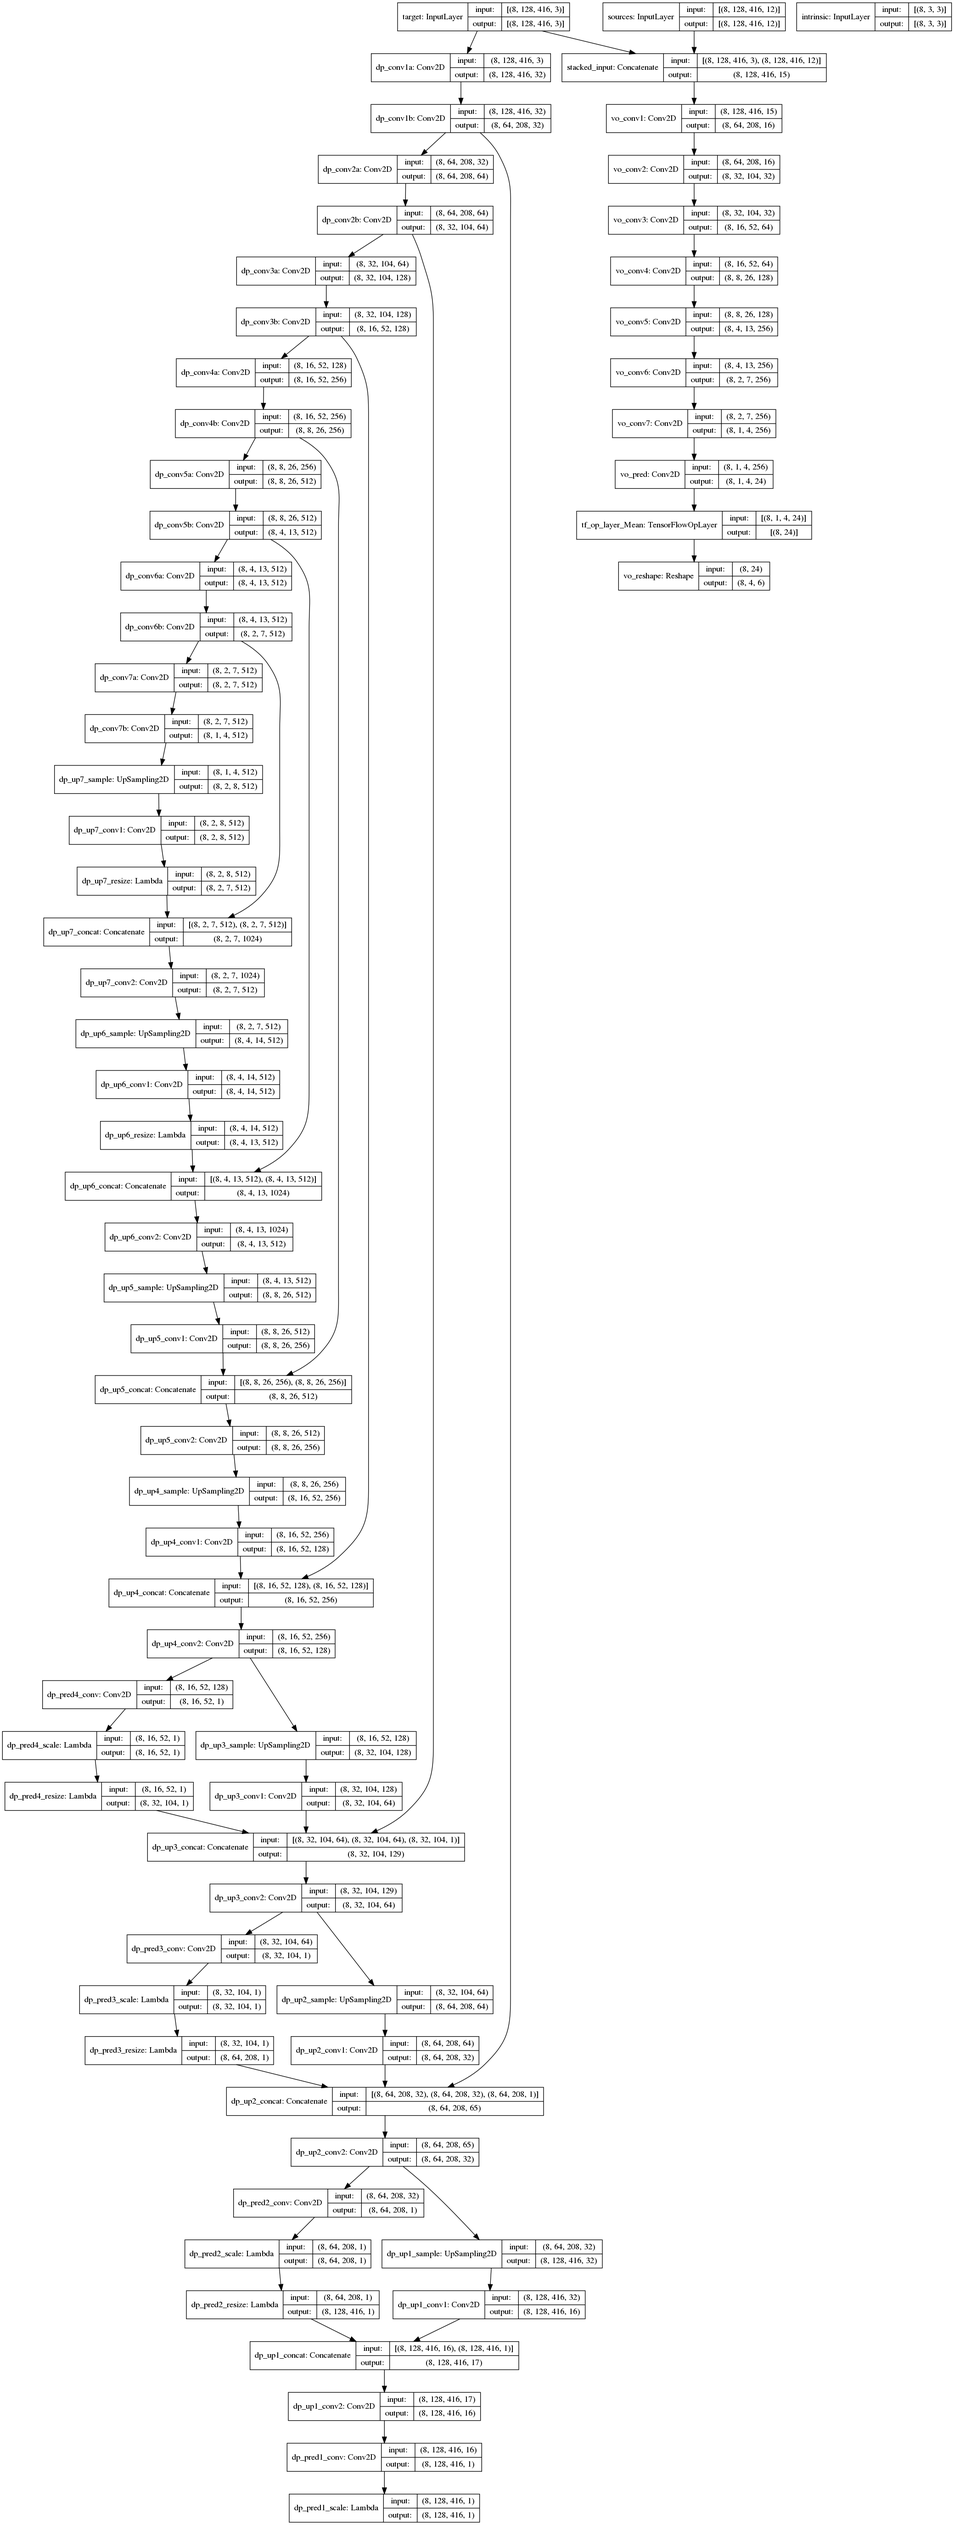
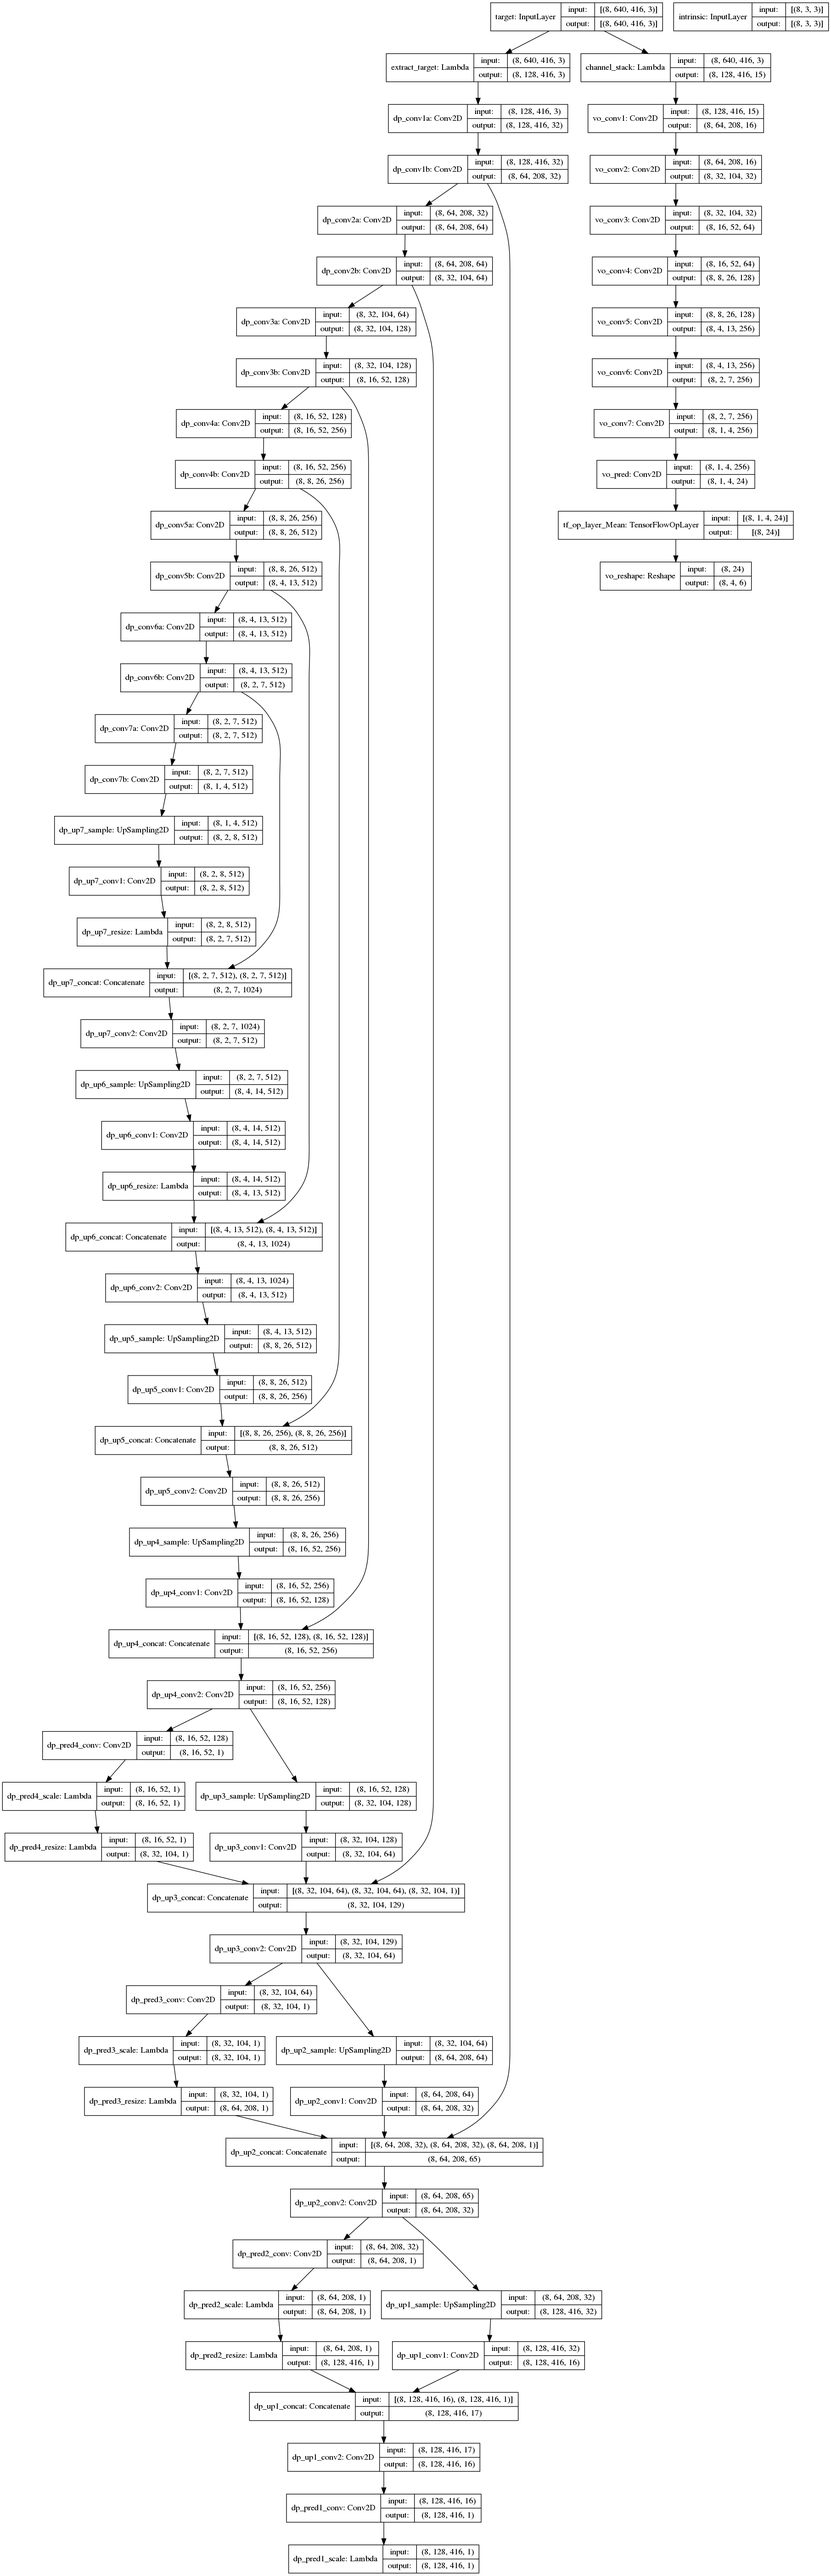
working on synthesize batch view

Changed region(s): [[0.0, 0.0, 1.0, 1.0], [0.526, 0.7156, 0.5569, 0.7467], [0.4331, 0.6223, 0.4641, 0.6534]]

diff --git a/model/model_builder.py b/model/model_builder.py
@@ -1,3 +1,6 @@
+import os.path as op
+import cv2
+import numpy as np
 import tensorflow as tf
 from tensorflow.keras import layers
 
@@ -6,40 +9,58 @@ from config import opts
 from model.loss_and_metric import synthesize_view_multi_scale
 
 
-def create_models(target_shape, source_shape, intrin_shape, batch_size):
+def create_models(image_shape, intrin_shape, batch_size):
+    model_pred = create_pred_model(image_shape, intrin_shape, batch_size)
+    # model_train = create_train_model(model_pred)
+    # return model_pred, model_train
+
+
+def create_pred_model(image_shape, intrin_shape, batch_size):
     # prepare input tensors
-    target_input = layers.Input(shape=target_shape, batch_size=batch_size, name="target")
-    source_inputs = layers.Input(shape=source_shape, batch_size=batch_size, name="sources")
+    stacked_image = layers.Input(shape=image_shape, batch_size=batch_size, name="target")
     intrinsic = layers.Input(shape=intrin_shape, batch_size=batch_size, name="intrinsic")
-    model_input = {"target": target_input, "sources": source_inputs, "intrinsic": intrinsic}
-    stacked_input = layers.Concatenate(axis=3, name="stacked_input")([target_input, source_inputs])
+    model_input = {"image": stacked_image, "intrinsic": intrinsic}
 
     # build layers of posenet and depthnet and make model for prediction
-    pred_depths_ms = build_depth_estim_layers(target_input)
-    pred_poses = build_visual_odom_layers(stacked_input)
+    pred_depths_ms = build_depth_estim_layers(stacked_image)
+    pred_poses = build_visual_odom_layers(stacked_image)
     predictions = {**pred_depths_ms, "pose": pred_poses}
     model_pred = tf.keras.Model(model_input, predictions)
     model_pred.compile(optimizer="adam", loss="mean_absolute_error")
+    return model_pred
 
+
+def create_train_model(model_pred):
     # calculate loss and make model for training
-    synthesized_targets_ms = synthesize_view_multi_scale(source_inputs, pred_depths_ms, 
-                                                         pred_poses, intrinsic)
-    loss = synthesized_targets_ms
-    # loss += calc_photometric_loss(synthesized_targets_ms, target_input)
-    model_train = tf.keras.Model(model_input, loss)
-    model_train.compile(optimizer="adam", loss="mean_absolute_error")
-
-    return model_pred, model_train
+    model_inputs = model_pred.input
+    stacked_image = model_inputs["image"]
+    intrinsic = model_inputs["intrinsic"]
+    predictions = model_pred.output
+    depth_ms = [value for key, value in predictions.items() if key.startsWith("depth")]
+    pose = predictions["pose"]
+    synthesized_targets_ms = synthesize_view_multi_scale(stacked_image, intrinsic, depth_ms, pose)
+    # loss = synthesized_targets_ms
+    # # loss += calc_photometric_loss(synthesized_targets_ms, target_input)
+    # model_train = tf.keras.Model(model_input, loss)
+    # model_train.compile(optimizer="adam", loss="mean_absolute_error")
+    # return model_train
+    pass
 
 
 # ==================== build DepthNet layers ====================
 DISP_SCALING_VGG = 10
 
 
-def build_depth_estim_layers(image_input):
-    batch, imheight, imwidth, _ = image_input.get_shape().as_list()
+def build_depth_estim_layers(stacked_image):
+    batch, imheight, imwidth, imchannel = stacked_image.get_shape().as_list()
+    imheight = int(imheight // opts.SNIPPET_LEN)
+    target_image = layers.Lambda(lambda image: tf.slice(image,
+                                 (0, imheight*(opts.SNIPPET_LEN-1), 0, 0),
+                                 (-1, imheight, -1, -1)),
+                                 name="extract_target")(stacked_image)
+    print("[build_depth_estim_layers] target image shape=", target_image.get_shape())
 
-    conv1 = convolution(image_input, 32, 7, strides=1, name="dp_conv1a")
+    conv1 = convolution(target_image, 32, 7, strides=1, name="dp_conv1a")
     conv1 = convolution(conv1, 32, 7, strides=2, name="dp_conv1b")
     conv2 = convolution(conv1, 64, 5, strides=1, name="dp_conv2a")
     conv2 = convolution(conv2, 64, 5, strides=2, name="dp_conv2b")
@@ -58,12 +79,12 @@ def build_depth_estim_layers(image_input):
     upconv6 = upconv_with_skip_connection(upconv7, conv5, 512, "dp_up6")
     upconv5 = upconv_with_skip_connection(upconv6, conv4, 256, "dp_up5")
     upconv4 = upconv_with_skip_connection(upconv5, conv3, 128, "dp_up4")
-    pred4 = get_disp_vgg(upconv4, int(imheight//4), int(imwidth//4), "dp_pred4")
-    upconv3 = upconv_with_skip_connection(upconv4, conv2, 64, "dp_up3", pred4)
-    pred3 = get_disp_vgg(upconv3, int(imheight//2), int(imwidth//2), "dp_pred3")
-    upconv2 = upconv_with_skip_connection(upconv3, conv1, 32, "dp_up2", pred3)
-    pred2 = get_disp_vgg(upconv2, imheight, imwidth, "dp_pred2")
-    upconv1 = upconv_with_skip_connection(upconv2, pred2, 16, "dp_up1")
+    pred4, pred4_up = get_disp_vgg(upconv4, int(imheight//4), int(imwidth//4), "dp_pred4")
+    upconv3 = upconv_with_skip_connection(upconv4, conv2, 64, "dp_up3", pred4_up)
+    pred3, pred3_up = get_disp_vgg(upconv3, int(imheight//2), int(imwidth//2), "dp_pred3")
+    upconv2 = upconv_with_skip_connection(upconv3, conv1, 32, "dp_up2", pred3_up)
+    pred2, pred2_up = get_disp_vgg(upconv2, imheight, imwidth, "dp_pred2")
+    upconv1 = upconv_with_skip_connection(upconv2, pred2_up, 16, "dp_up1")
     pred1 = get_disp_vgg(upconv1, imheight, imwidth, "dp_pred1")
 
     return {"depth1": pred1, "depth2": pred2, "depth3": pred3, "depth4": pred4}
@@ -92,8 +113,8 @@ def upconv_with_skip_connection(bef_layer, skip_layer, out_channels, scope, bef_
 def get_disp_vgg(x, dst_height, dst_width, scope):
     disp = layers.Conv2D(1, 3, strides=1, padding="same", activation="sigmoid", name=scope+"_conv")(x)
     disp = layers.Lambda(lambda x: DISP_SCALING_VGG * x + 0.01, name=scope+"_scale")(disp)
-    disp = resize_image(disp, dst_height, dst_width, scope)
-    return disp
+    disp_up = resize_image(disp, dst_height, dst_width, scope)
+    return disp, disp_up
 
 
 def resize_like(src, ref, scope):
@@ -111,10 +132,13 @@ def resize_image(src, dst_height, dst_width, scope):
 
 
 # ==================== build PoseNet layers ====================
-def build_visual_odom_layers(stacked_input):
-    num_sources = int(stacked_input.get_shape().as_list()[3] // 3 - 1)
+def build_visual_odom_layers(stacked_image):
+    channel_stack_image = layers.Lambda(lambda image: restack_on_channels(image, opts.SNIPPET_LEN),
+                                        name="channel_stack")(stacked_image)
+    print("[build_visual_odom_layers] channel stacked image shape=", channel_stack_image.get_shape())
+    num_sources = opts.SNIPPET_LEN - 1
 
-    conv1 = convolution(stacked_input, 16, 7, 2, "vo_conv1")
+    conv1 = convolution(channel_stack_image, 16, 7, 2, "vo_conv1")
     conv2 = convolution(conv1, 32, 5, 2, "vo_conv2")
     conv3 = convolution(conv2, 64, 3, 2, "vo_conv3")
     conv4 = convolution(conv3, 128, 3, 2, "vo_conv4")
@@ -129,15 +153,52 @@ def build_visual_odom_layers(stacked_input):
     return poses
 
 
-# ==================== executable ====================
-def test():
-    target_shape = (opts.IM_HEIGHT, opts.IM_WIDTH, 3)
-    source_shape = (opts.IM_HEIGHT, opts.IM_WIDTH, 3*(opts.SNIPPET_LEN-1))
+def restack_on_channels(vertical_stack, num_stack):
+    batch, imheight, imwidth, _ = vertical_stack.get_shape().as_list()
+    imheight = int(imheight // num_stack)
+    # create channel for snippet sequence
+    channel_stack_image = tf.reshape(vertical_stack, shape=(batch, -1, imheight, imwidth, 3))
+    # move snippet dimension to 3
+    channel_stack_image = tf.transpose(channel_stack_image, (0, 2, 3, 1, 4))
+    # stack snippet images on channels
+    channel_stack_image = tf.reshape(channel_stack_image, shape=(batch, imheight, imwidth, -1))
+    return channel_stack_image
+
+
+# ==================== tests ====================
+def test_restack_on_channels():
+    print("===== start test_restack_on_channels")
+    filename = op.join(opts.DATAPATH_SRC, "kitti_raw_train", "2011_09_26_0001", "000024.png")
+    image = cv2.imread(filename)
+    batch_image = np.expand_dims(image, 0)
+    batch_image = np.tile(batch_image, (8, 1, 1, 1))
+    print("batch image shape", batch_image.shape)
+    batch_image_tensor = tf.constant(batch_image, dtype=tf.float32)
+
+    channel_stack_image = restack_on_channels(batch_image_tensor, opts.SNIPPET_LEN)
+
+    channel_stack_image = channel_stack_image.numpy()
+    print("channel stack image shape", channel_stack_image.shape)
+    # cv2.imshow("original image", image)
+    # cv2.imshow("restack image1", channel_stack_image[0, :, :, :3])
+    # cv2.imshow("restack image2", channel_stack_image[0, :, :, 3:6])
+    # cv2.waitKey()
+    assert (image[opts.IM_HEIGHT:opts.IM_HEIGHT*2] == channel_stack_image[0, :, :, 3:6]).all()
+    print("test_restack_on_channels passed")
+
+
+def test_create_pred_model():
+    image_shape = (opts.IM_HEIGHT*opts.SNIPPET_LEN, opts.IM_WIDTH, 3)
     intrin_shape = (3, 3)
-    model_pred, model_train = create_models(target_shape, source_shape, intrin_shape, batch_size=8)
+    model_pred = create_pred_model(image_shape, intrin_shape, batch_size=8)
     model_pred.summary()
-    model_train.summary()
     tf.keras.utils.plot_model(model_pred, to_file="model.png", show_shapes=True, show_layer_names=True)
+
+
+# ==================== tests ====================
+def test():
+    test_create_pred_model()
+    test_restack_on_channels()
 
 
 if __name__ == "__main__":

diff --git a/model/loss_and_metric.py b/model/loss_and_metric.py
@@ -1,25 +1,56 @@
+import os.path as op
+import cv2
+import numpy as np
 import tensorflow as tf
+from tensorflow.keras import layers
 
 import settings
 from config import opts
 import utils.util_funcs as uf
 
 
-def synthesize_view_multi_scale(src_images, tgt_depth_ms, poses_rvec, intrinsic):
+def synthesize_view_multi_scale(stacked_image, intrinsic, pred_depth_ms, pred_pose):
+    """
+    :param stacked_image: [batch, height*5, width, 3]
+    :param intrinsic: [batch, 3, 3]
+    :param pred_depth_ms: predicted depth in multi scale [batch, height*scale, width*scale, 1]
+    :param pred_pose: predicted pose [batch, 4, 6]
+    :return: reconstructed target view
+    """
+    width_ori = stacked_image.get_shape().as_list()[2]
+    poses_matr = uf.pose_rvec2matr_batch(pred_pose)
     recon_images = []
-    print("[synthesize_view_multi_scale]")
-    for key, depth_sc in tgt_depth_ms.items():
-        batch, height_sc, width_sc, _ = depth_sc.get_shape().as_list()
-        scale = height_sc // opts.IM_HEIGHT
-        intrinsic_sc = tf.identity(intrinsic) * scale
-        src_images_sc = tf.image.resize(src_images, size=[height_sc, width_sc], method="bilinear")
-        poses_matr = uf.pose_rvec2matr_batch(poses_rvec)
-        for si in range(opts.SNIPPET_LEN-1):
-            source_sc = tf.slice(src_images_sc, (-1, -1, -1, si*3), (-1, -1, -1, 3))
-            recon_target = synthesize_batch_view(source_sc, depth_sc, poses_matr[:, si, :, :], intrinsic_sc)
-            recon_images.append({"scale": scale, "srcidx": si, "recon_target": recon_target})
+    for depth_sc in pred_depth_ms.items():
+        batch, height_sc, width_sc, _ = pred_depth_ms[0].get_shape().as_list()
+        scale = int(width_ori / width_sc)
+        intrinsic_sc = scale_intrinsic(intrinsic, scale)
 
-    return poses
+        source_images_sc = layers.Lambda(lambda image: reshape_source_images(image, scale),
+                                      name="reorder_source")(stacked_image)
+        print("[synthesize_view_multi_scale] source image shape=", source_images_sc.get_shape())
+        recon_image_sc = synthesize_batch_view(source_images_sc, depth_sc, poses_matr, intrinsic_sc)
+
+    return recon_images
+
+
+def scale_intrinsic(intrinsic, scale):
+    # intrinsic_sc = tf.identity(intrinsic) * scale
+    # TODO
+    pass
+
+
+def reshape_source_images(stacked_image, scale):
+    batch, stheight, stwidth, _ = stacked_image.get_shape().as_list()
+    scaled_size = (int(stheight//scale), int(stwidth//scale))
+    scaled_image = tf.image.resize(stacked_image, size=scaled_size, method="bilinear")
+
+    scaled_image = tf.cast(scaled_image, dtype=tf.uint8)
+
+    batch, scheight, scwidth, _ = scaled_image.get_shape().as_list()
+    scheight = int(scheight // opts.SNIPPET_LEN)
+    source_images = tf.slice(scaled_image, (0, 0, 0, 0), (-1, scheight*(opts.SNIPPET_LEN - 1), -1, -1))
+    source_images = tf.reshape(source_images, shape=(batch, -1, scheight, scwidth, 3))
+    return source_images
 
 
 def synthesize_batch_view(source, depth, pose, intrinsic):
@@ -141,3 +172,34 @@ def vode_loss(y_true, y_pred):
     loss = tf.keras.backend.mean(y_pred, axis=None)
     # photometric_loss = calc_photometric_loss(y_true, y_pred)
     return loss
+
+
+# ==================== tests ====================
+def test_reshape_source_images():
+    print("===== start test_reshape_source_images")
+    filename = op.join(opts.DATAPATH_SRC, "kitti_raw_train", "2011_09_26_0001", "000024.png")
+    image = cv2.imread(filename)
+    batch_image = np.expand_dims(image, 0)
+    batch_image = np.tile(batch_image, (8, 1, 1, 1))
+    print("batch image shape", batch_image.shape)
+    batch_image_tensor = tf.constant(batch_image, dtype=tf.float32)
+
+    sources = reshape_source_images(batch_image_tensor, 2)
+
+    sources = tf.cast(sources, tf.uint8)
+    sources = sources.numpy()
+    print("reordered source image shape", sources.shape)
+    cv2.imshow("original image", image)
+    cv2.imshow("reordered image1", sources[0, 1])
+    cv2.imshow("reordered image2", sources[0, 2])
+    cv2.waitKey()
+    # assert (image[opts.IM_HEIGHT:opts.IM_HEIGHT*2] == sources[0, 1]).all()
+    print("reshape_source_images passed")
+
+
+def test():
+    test_reshape_source_images()
+
+
+if __name__ == "__main__":
+    test()

diff --git a/tfrecords/tfrecord_reader.py b/tfrecords/tfrecord_reader.py
@@ -64,6 +64,7 @@ class TfrecordGenerator:
             if feat_conf["shape"] is not None:
                 decoded[key] = tf.reshape(decoded[key], shape=feat_conf["shape"])
 
+        decoded["image"] = tf.cast(decoded["image"], tf.float32)
         x = {"image": decoded["image"], "pose_gt": decoded["pose"],
              "depth_gt": decoded["depth"], "intrinsic": decoded["intrinsic"]}
         y = tf.constant(0)
@@ -110,6 +111,7 @@ def test():
         for key, value in x.items():
             print(f"x shape and type: {key}={x[key].shape}, {x[key].dtype}")
 
+        x["image"] = tf.cast(x["image"], tf.uint8)
         image = x["image"].numpy()
         cv2.imshow("image", image[0])
         cv2.waitKey(100)

diff --git a/tfrecords/tfrecord_writer.py b/tfrecords/tfrecord_writer.py
@@ -11,7 +11,7 @@ import utils.util_funcs as uf
 import tfrecords.data_feeders as df
 
 
-class TfrecordMaker():
+class TfrecordMaker:
     def __init__(self, srcpath, dstpath):
         self.srcpath = srcpath
         self.dstpath = dstpath
